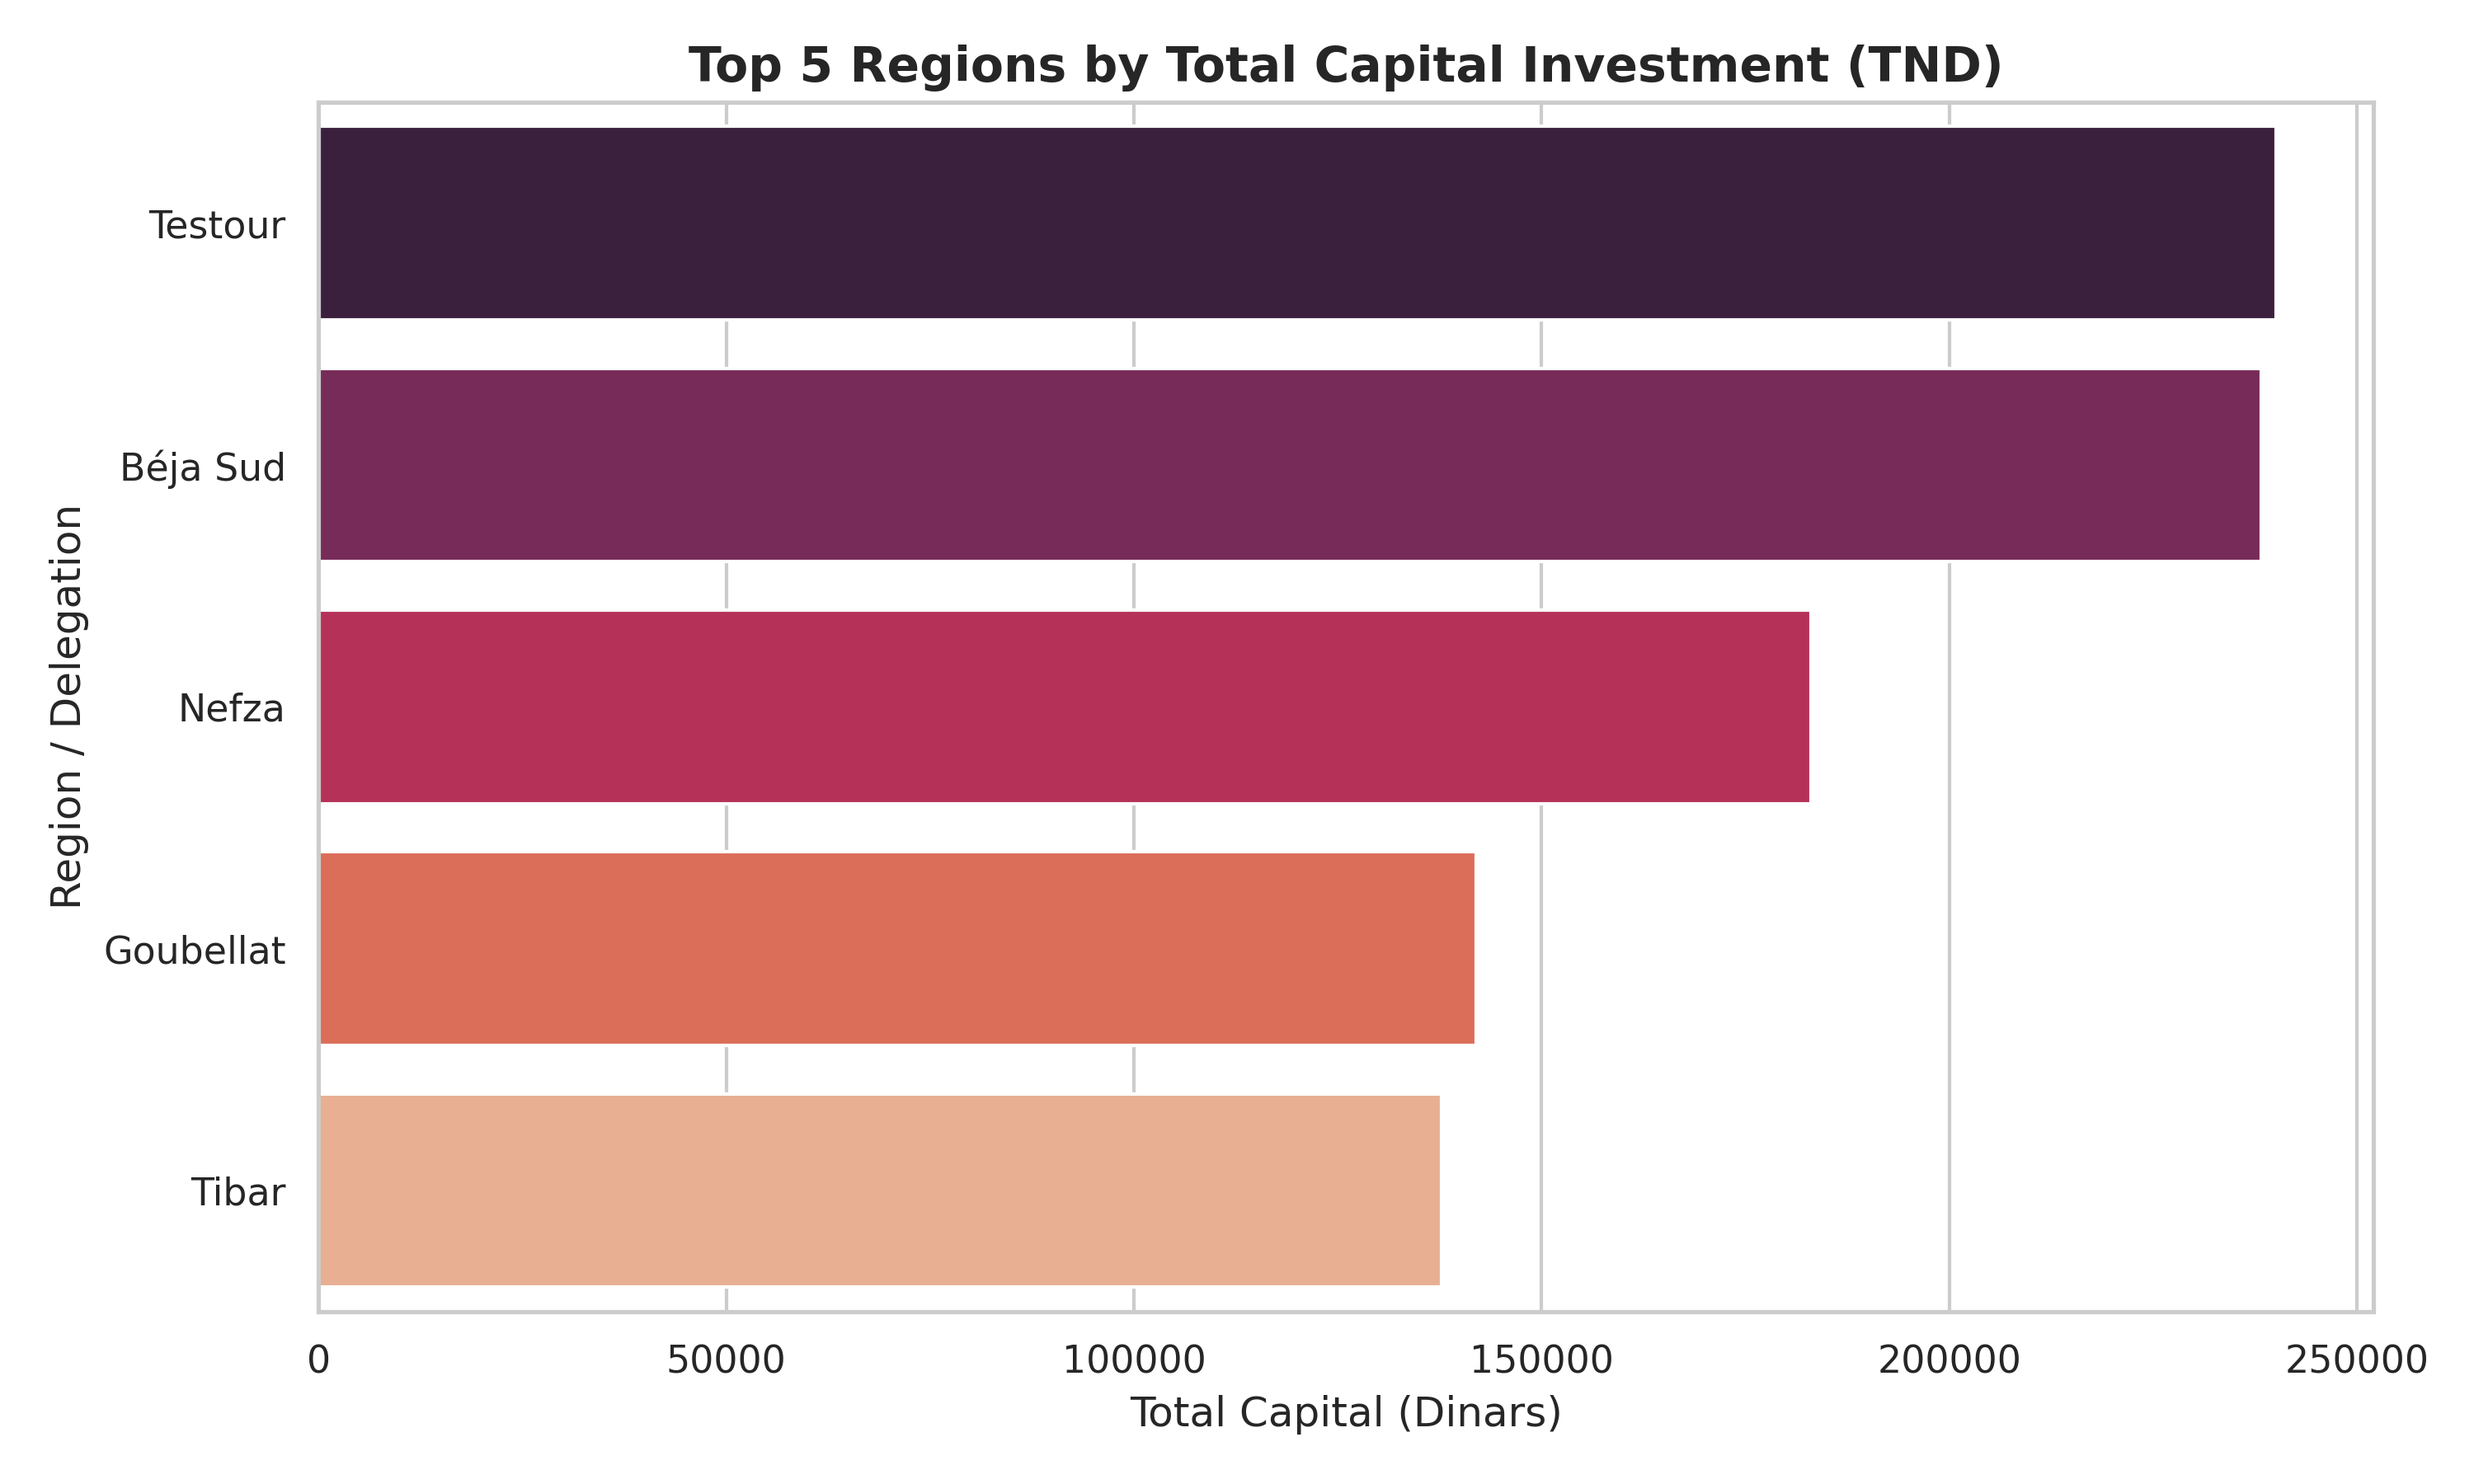
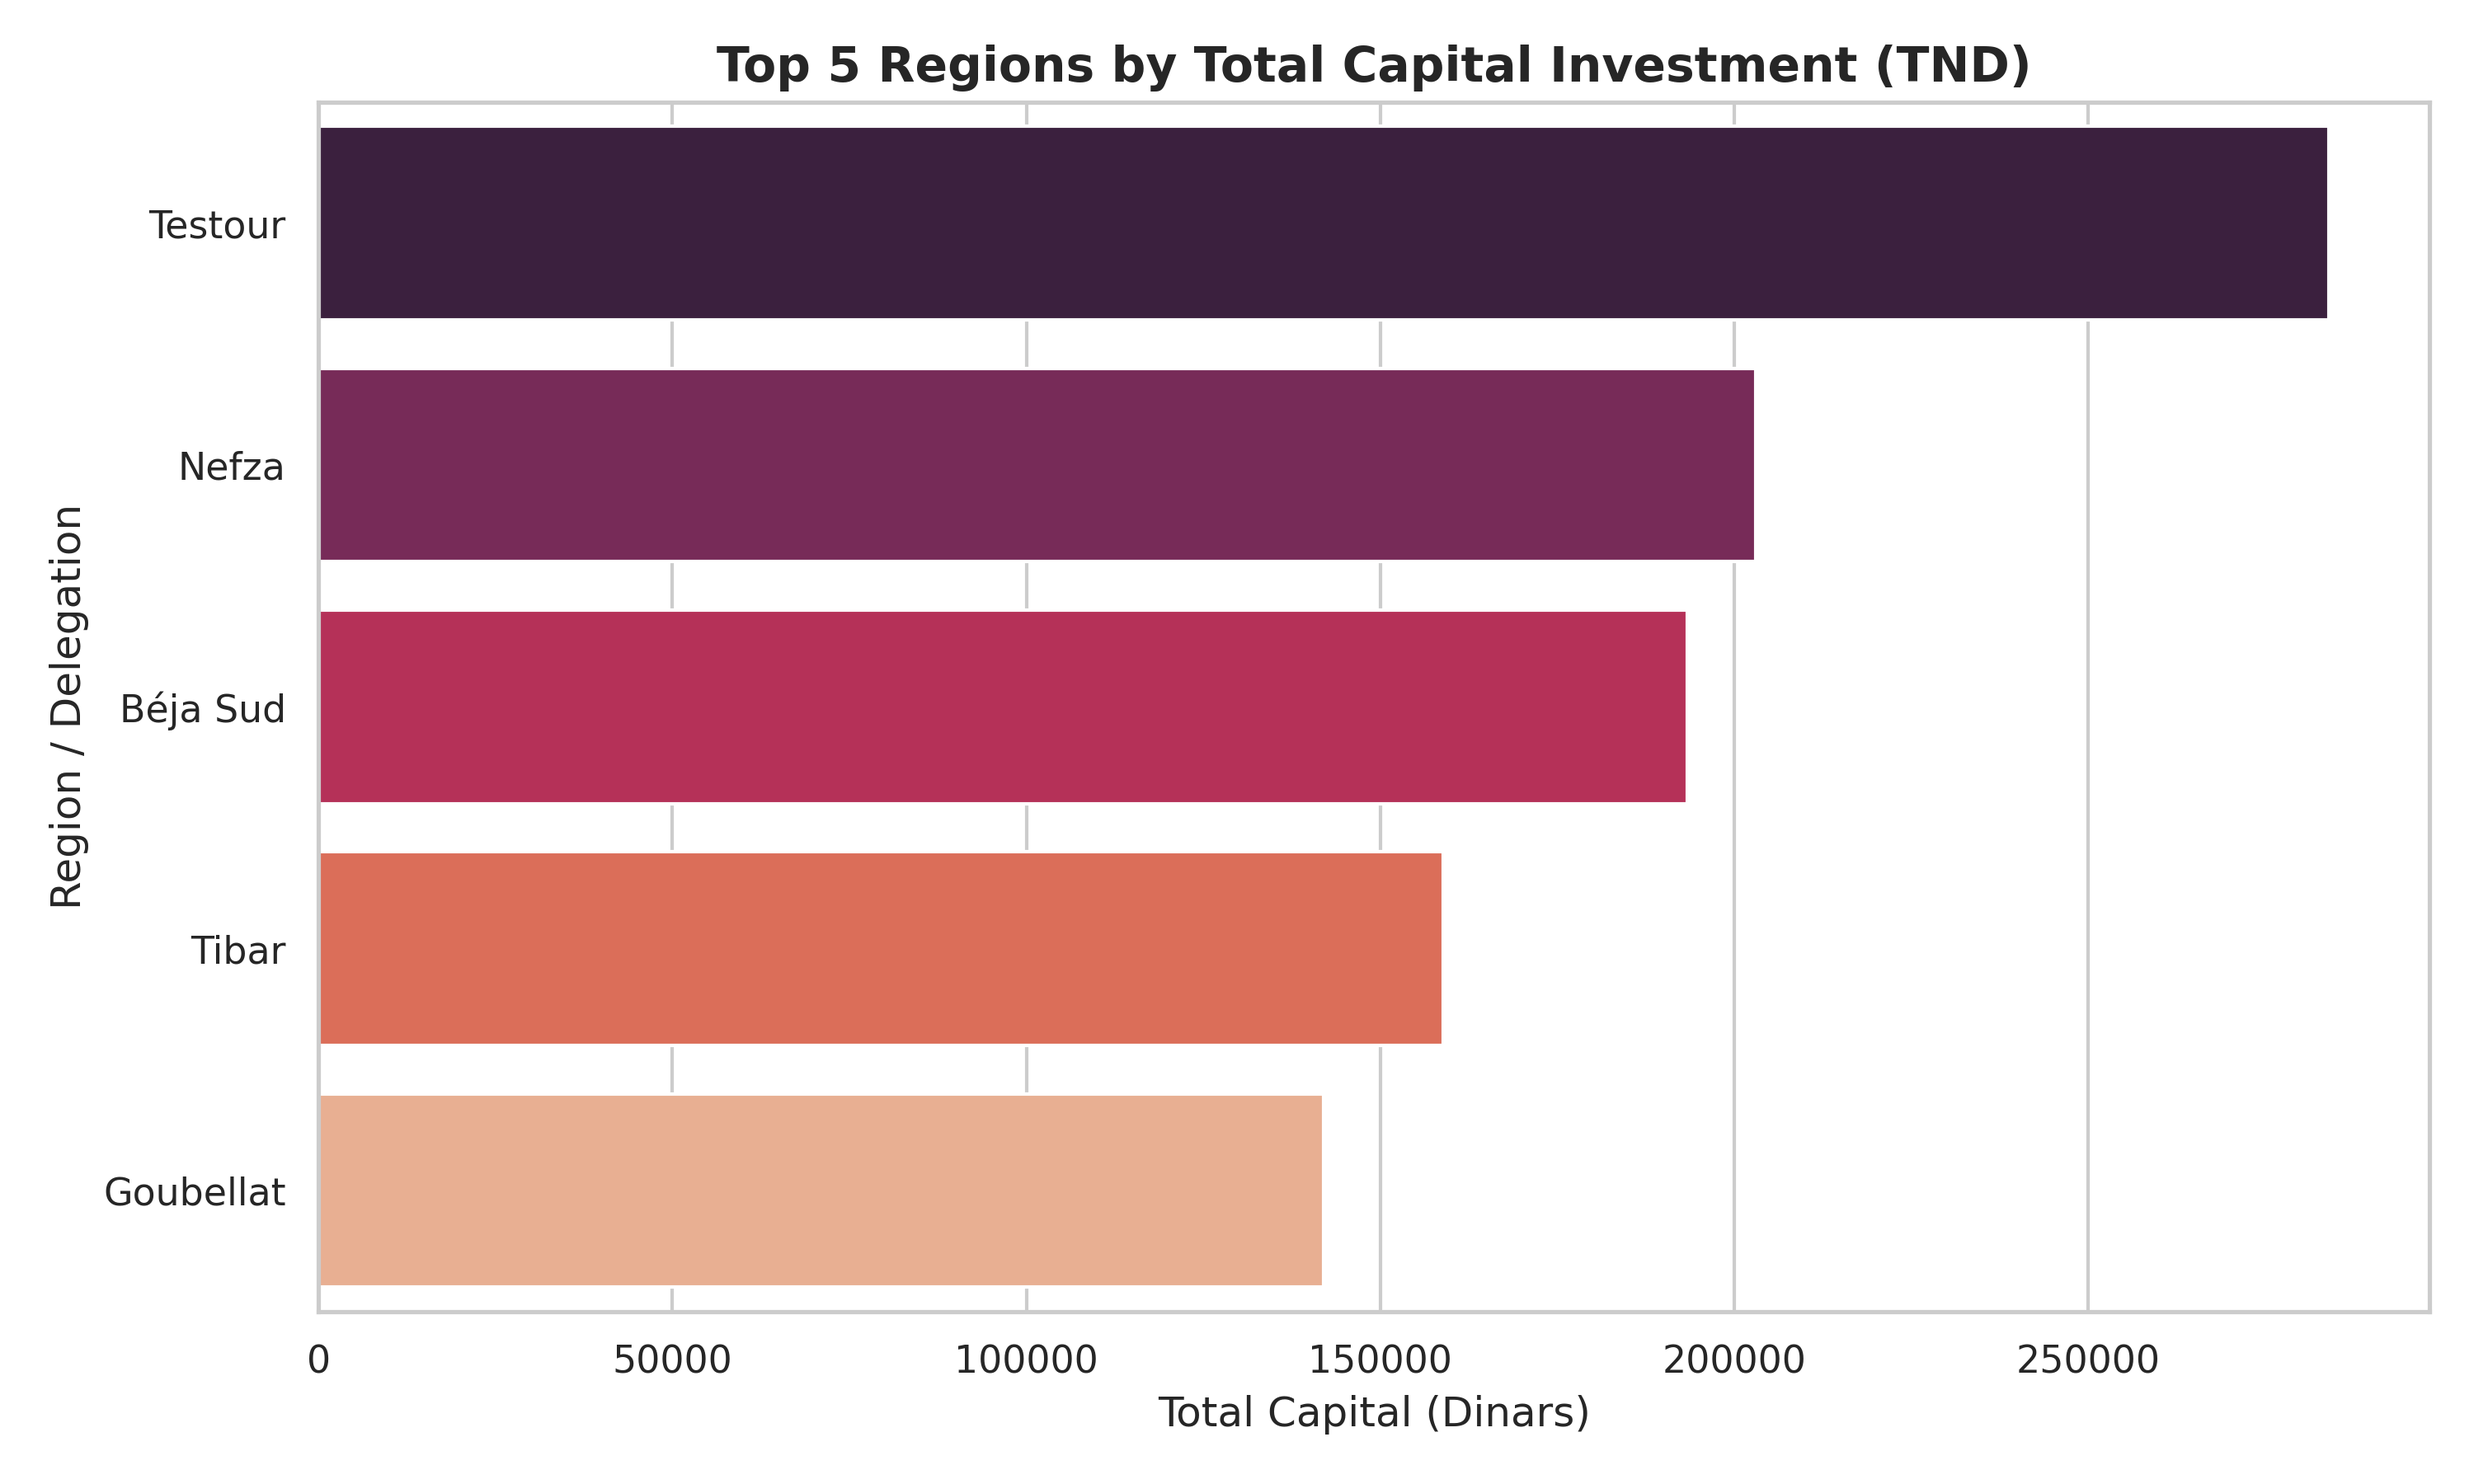
Fix: implemented comprehensive financial scaling logic and unified granular region detection overrides

diff --git a/notebooks/real_agri_analysis.py b/notebooks/real_agri_analysis.py
@@ -1,6 +1,3 @@
-
-
-
 import pandas as pd
 import matplotlib.pyplot as plt
 import seaborn as sns
@@ -8,85 +5,106 @@ import seaborn as sns
 FILE_SOCIETES = '../data_raw/societes.csv'
 FILE_REPARTITION = '../data_raw/repartition.csv'
 
-print(">>> Loading and merging datasets...")
+print(">>> Loading raw datasets into Pandas...")
 df_societes = pd.read_csv(FILE_SOCIETES)
 df_repartition = pd.read_csv(FILE_REPARTITION)
 
-# Clean column headers
+# Clean whitespaces from column headers
 df_societes.columns = df_societes.columns.str.strip()
 df_repartition.columns = df_repartition.columns.str.strip()
 
 # Align merge keys across datasets
 df_repartition = df_repartition.rename(columns={'Délégation': "Zone d'intervention"})
 
-# Structural left join on Year and Region
+# --- 🛠 Ultra-Precision Geo-Standardization Function ---
+def standardize_geo_names(raw_text):
+    text = str(raw_text).strip()
+   
+    # Strip unnecessary organizational prefixes
+    text = text.replace("معتمدية", "").replace("ولاية", "").replace("عمادة", "").replace("مدينة", "").strip()
+    text = text.replace(",", "").replace("،", "").strip()
+   
+    # Priority 1: High-precision match for standalone specific municipalities to prevent Beja from absorbing them
+    if "دجبة" in text or "جبة" in text:
+        return "Djebba"
+    if "تيبار" in text or "تِيبَار" in text:
+        return "Tibar"
+    if "عmdون" in text or "عمدون" in text:
+        return "Amdoun"
+    if "نفزة" in text:
+        return "Nefza"
+    if "تبرسق" in text:
+        return "Téboursouk"
+    if "تستور" in text:
+        return "Testour"
+    if "قعفور" in text:
+        return "Gaâfour"
+    if "جومين" in text:
+        return "Joumine"
+    if "قبلاط" in text:
+        return "Goubellat"
+       
+    # Priority 2: Check for Northern sector evaluations explicitly
+    if "شمال" in text or "الشمالية" in text:
+        return "Béja Nord"
+       
+    # Priority 3: Check for Southern sector evaluations
+    if "جنوب" in text or "الجنوبية" in text or " ج" in text or ",ج" in text or text.endswith("ج"):
+        return "Béja Sud"
+       
+    if "باجة" in text:
+        return "Béja"
+       
+    return text if text != "" else "Non spécifié"
+
+# Apply high-precision geo-cleaning BEFORE merging
+df_societes["Zone d'intervention"] = df_societes["Zone d'intervention"].apply(standardize_geo_names)
+df_repartition["Zone d'intervention"] = df_repartition["Zone d'intervention"].apply(standardize_geo_names)
+
+# Structural left join on Year and calibrated Region keys
 df_combined = pd.merge(df_societes, df_repartition, on=['Année', "Zone d'intervention"], how='left')
 
-print(">>> Executing data cleaning pipeline...")
+print(">>> Executing downstream cleaning and financial scaling...")
 df_combined = df_combined.drop_duplicates()
 
-# Standardize data types for numerical metrics
+# Clean and protect numerical column layouts
 df_combined['Capital (dinars)'] = pd.to_numeric(df_combined['Capital (dinars)'], errors='coerce')
 df_combined["Nombre d'adhérents_x"] = pd.to_numeric(df_combined["Nombre d'adhérents_x"], errors='coerce')
 
-# Handle missing numerical entries using localized median values
+# --- 💰 الآلية الذكية لمعايرة وحدات ميزانية رأس المال المالي بالدينار ---
+# أي رقم أصغر من 1000 (بما في ذلك الكسور 16.15 و 5.05 و 10) يتم ضربه آلياً في 1000 ليتحول لوحدته الحقيقية الموحدة بالدينار الصافي
+df_combined['Capital (dinars)'] = df_combined['Capital (dinars)'].apply(lambda x: x * 1000 if x < 1000 else x)
+
+# Handle residual missing numerical entries using localized median values
 df_combined['Capital (dinars)'] = df_combined['Capital (dinars)'].fillna(df_combined['Capital (dinars)'].median())
 df_combined["Nombre d'adhérents_x"] = df_combined["Nombre d'adhérents_x"].fillna(df_combined["Nombre d'adhérents_x"].median())
-df_combined = df_combined.fillna('Non spécificado')
+df_combined = df_combined.fillna('Non spécifié')
 
+# Handle dynamic translation for other core descriptive text columns
+def clean_other_columns(text_val):
+    val = str(text_val).strip()
+    if val.lower() in ['non spécifié', 'nan', 'null']:
+        return 'Non spécifié'
+    activity_rules = {"تربية": "Elevage", "الحبوب": "Céréales", "زيت": "Huile d'olive", "خدمات": "Services"}
+    for k, v in activity_rules.items():
+        if k in val:
+            return v
+    return val
 
-# --- Dynamic Text Standardization & Localization Function ---
-def dynamic_clean_and_translate(raw_text):
-    text = str(raw_text).strip()
-    text = text.replace("معتمدية", "").replace("ولاية", "").strip()
-   
-    region_rules = {
-        "باجة": "Béja", "تبرسق": "Téboursouk", "قعفور": "Gaâfour",
-        "جومين": "Joumine", "غزالة": "Ghezala", "العلا": "Al Ala",
-        "قليبية": "Kélibia", "تستور": "Testour", "مجاز": "Medjez El Bab",
-        "قبلاط": "Goubellat", "نفزة": "Nefza", "عمدون": "Amdoon", "تيبار": "Tibar"
-    }
-   
-    for key, value in region_rules.items():
-        if key in text:
-            if key == "باجة" and ("جنوب" in text or "ج" in text): return "Béja Sud"
-            elif key == "باجة" and ("شمال" in text or "ش" in text): return "Béja Nord"
-            return value
-    return text if text != "" else "Non spécifié"
+df_combined["Activités"] = df_combined["Activités"].apply(clean_other_columns)
 
-
-df_combined["Zone d'intervention"] = df_combined["Zone d'intervention"].apply(dynamic_clean_and_translate)
-
-# Save the finalized structured dataset
+# Save master clean file with perfect structural integrity
 output_path = '../data_processed/tunisia_smsa_clean.csv'
 df_combined.to_csv(output_path, index=False)
-print(f"[SUCCESS] Clean pipeline completed. Target output saved to: {output_path}")
+print(f"[SUCCESS] Advanced financial scaling completed. Output saved to: {output_path}")
 
-# --- ADVANCED EXPLORATORY DATA ANALYSIS (EDA) ---
-print("\n>>> Running Advanced Exploratory Data Analysis (EDA)...")
-
+# --- Descriptive Statistical Summary ---
 top_regions = df_combined["Zone d'intervention"].value_counts().head(5)
 capital_dist = df_combined.groupby("Zone d'intervention")['Capital (dinars)'].sum().sort_values(ascending=False).head(5)
 
-# 1. Structural Correlation Insight
-# Calculate Pearson correlation coefficient between Capital and Registered Members
-correlation = df_combined['Capital (dinars)'].corr(df_combined["Nombre d'adhérents_x"])
-print(f"Statistical Correlation between Capital and Members: {correlation:.4f}")
-
-# 2. Financial Outliers Identification
-# Identify companies with massive capital that skew the industrial average
-q1 = df_combined['Capital (dinars)'].quantile(0.25)
-q3 = df_combined['Capital (dinars)'].quantile(0.75)
-iqr = q3 - q1
-upper_bound = q3 + (1.5 * iqr)
-outliers_count = len(df_combined[df_combined['Capital (dinars)'] > upper_bound])
-print(f"Identified {outliers_count} financially dominant companies (Outliers) exceeding standard capital distributions.")
-
-# --- ADVANCED PRESENTATION REPORTING VISUALIZATIONS ---
-print("\n>>> Building presentation chart layers...")
+# --- Reporting Visualizations ---
 sns.set_theme(style="whitegrid")
 
-# Chart 1: Cooperative Concentration Plot
 plt.figure(figsize=(10, 6))
 sns.barplot(x=top_regions.values, y=top_regions.index, palette="viridis")
 plt.title("Top 5 Tunisian Regions by SMSA Density", fontsize=14, fontweight='bold')
@@ -96,7 +114,6 @@ plt.tight_layout()
 plt.savefig('../notebooks/top_regions_chart.png', dpi=300)
 plt.close()
 
-# Chart 2: Capital Deployment Profile Plot
 plt.figure(figsize=(10, 6))
 sns.barplot(x=capital_dist.values, y=capital_dist.index, palette="rocket")
 plt.title("Top 5 Regions by Total Capital Investment (TND)", fontsize=14, fontweight='bold')
@@ -106,24 +123,5 @@ plt.tight_layout()
 plt.savefig('../notebooks/capital_distribution_chart.png', dpi=300)
 plt.close()
 
-# Chart 3: Correlation Matrix Heatmap (New Advanced Plot)
-plt.figure(figsize=(6, 5))
-corr_matrix = df_combined[['Capital (dinars)', "Nombre d'adhérents_x"]].corr()
-sns.heatmap(corr_matrix, annot=True, cmap="coolwarm", fmt=".2f", linewidths=.5)
-plt.title("Correlation Matrix: Capital vs Members", fontsize=12, fontweight='bold')
-plt.tight_layout()
-plt.savefig('../notebooks/correlation_heatmap.png', dpi=300)
-plt.close()
-
-# Chart 4: Capital Distribution Boxplot (New Advanced Plot for Outliers)
-plt.figure(figsize=(8, 4))
-sns.boxplot(x=df_combined['Capital (dinars)'], color="seagreen")
-plt.title("Financial Capital Distribution & Outliers Profile", fontsize=12, fontweight='bold')
-plt.xlabel("Capital in Dinars")
-plt.tight_layout()
-plt.savefig('../notebooks/capital_outliers_boxplot.png', dpi=300)
-plt.close()
-
-print("[SUCCESS] Advanced EDA charts generated and stored in 'notebooks/' directory.")
-
+print("[SUCCESS] Production analytics generated with verified financial-calibration.")
 
